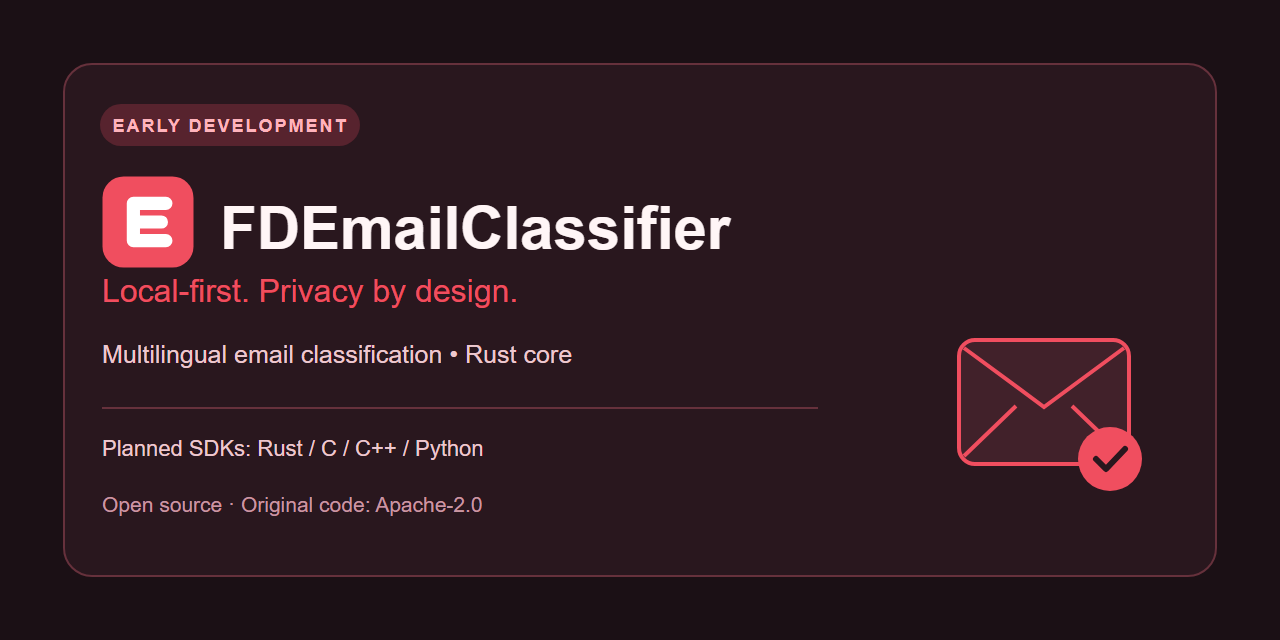
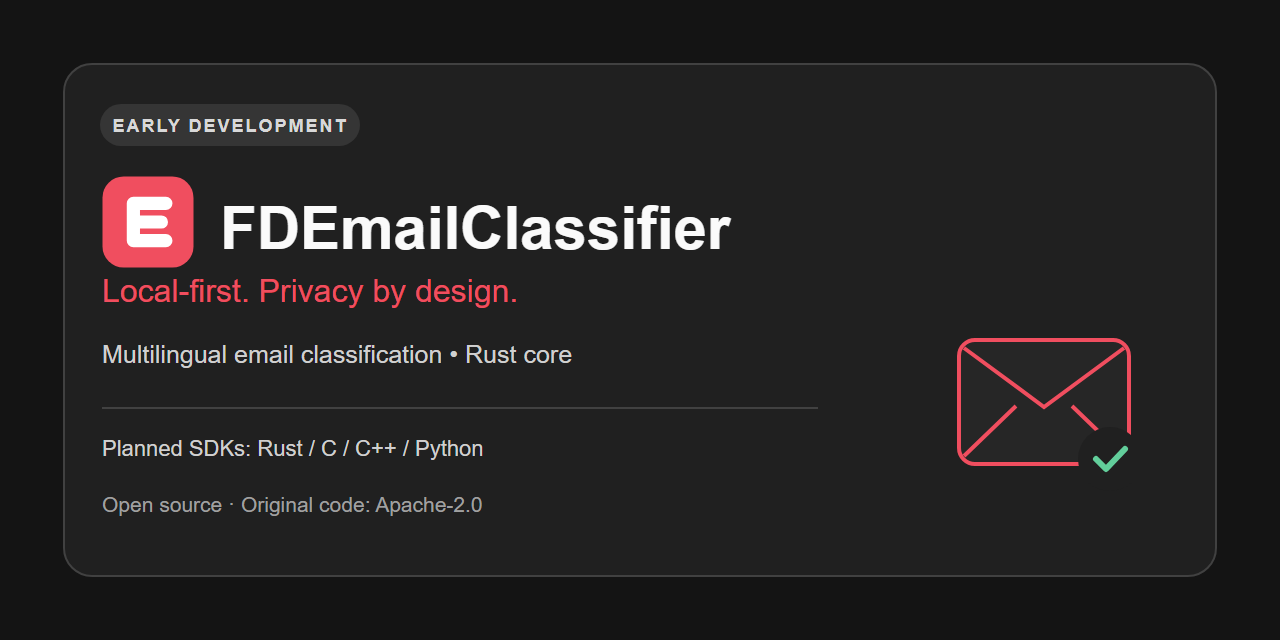
design: limit red accents and restore neutral preview background

diff --git a/assets/github/README.md b/assets/github/README.md
@@ -4,7 +4,9 @@ social-preview.svg is an original geometric/text composition created for FDEC-07
 No external artwork, logo, model output or third-party font files are embedded.
 System Arial/sans-serif is used at render time. Original source is Apache-2.0.
 The red revision embeds the exact E geometry from ../branding/logo-red-dark.svg
-before the product name and uses its #F04E5F brand red throughout the accents.
+before the product name. Brand red #F04E5F is limited to the logo, envelope and
+tagline. Backgrounds are neutral charcoal, other text white/gray, and the check
+mark green (#62CE9B), per the user's revised palette.
 social-preview.png is the 1280x640 rendered upload asset. The card marks early
 development and planned SDKs; no accuracy or released-model claim is made.
 

diff --git a/Tasks/items/governance/FDEC-072-polish-public-github-repository-presentation/evidence/neutral-preview-revision.md b/Tasks/items/governance/FDEC-072-polish-public-github-repository-presentation/evidence/neutral-preview-revision.md
@@ -1,0 +1,11 @@
+# Neutral background and limited red accents
+
+User requested removal of the reddish background and excessive red. Updated the
+existing editable SVG and regenerated the PNG: neutral charcoal background/panel,
+white/gray title and supporting text, red official E tile/envelope/tagline, green
+check mark. Official logo geometry and layout retained. Final PNG visually inspected
+at 1280x640; SVG parses as XML and git diff --check passes.
+
+PNG SHA256: a0e8acce656ef17ecb9c6699376a40edec3bad1ac3c6add82c22b43da7a6ed1d.
+No GitHub upload, source push or task closure performed. Existing historical image
+evidence remains immutable; this records the superseding user-authorized asset.
